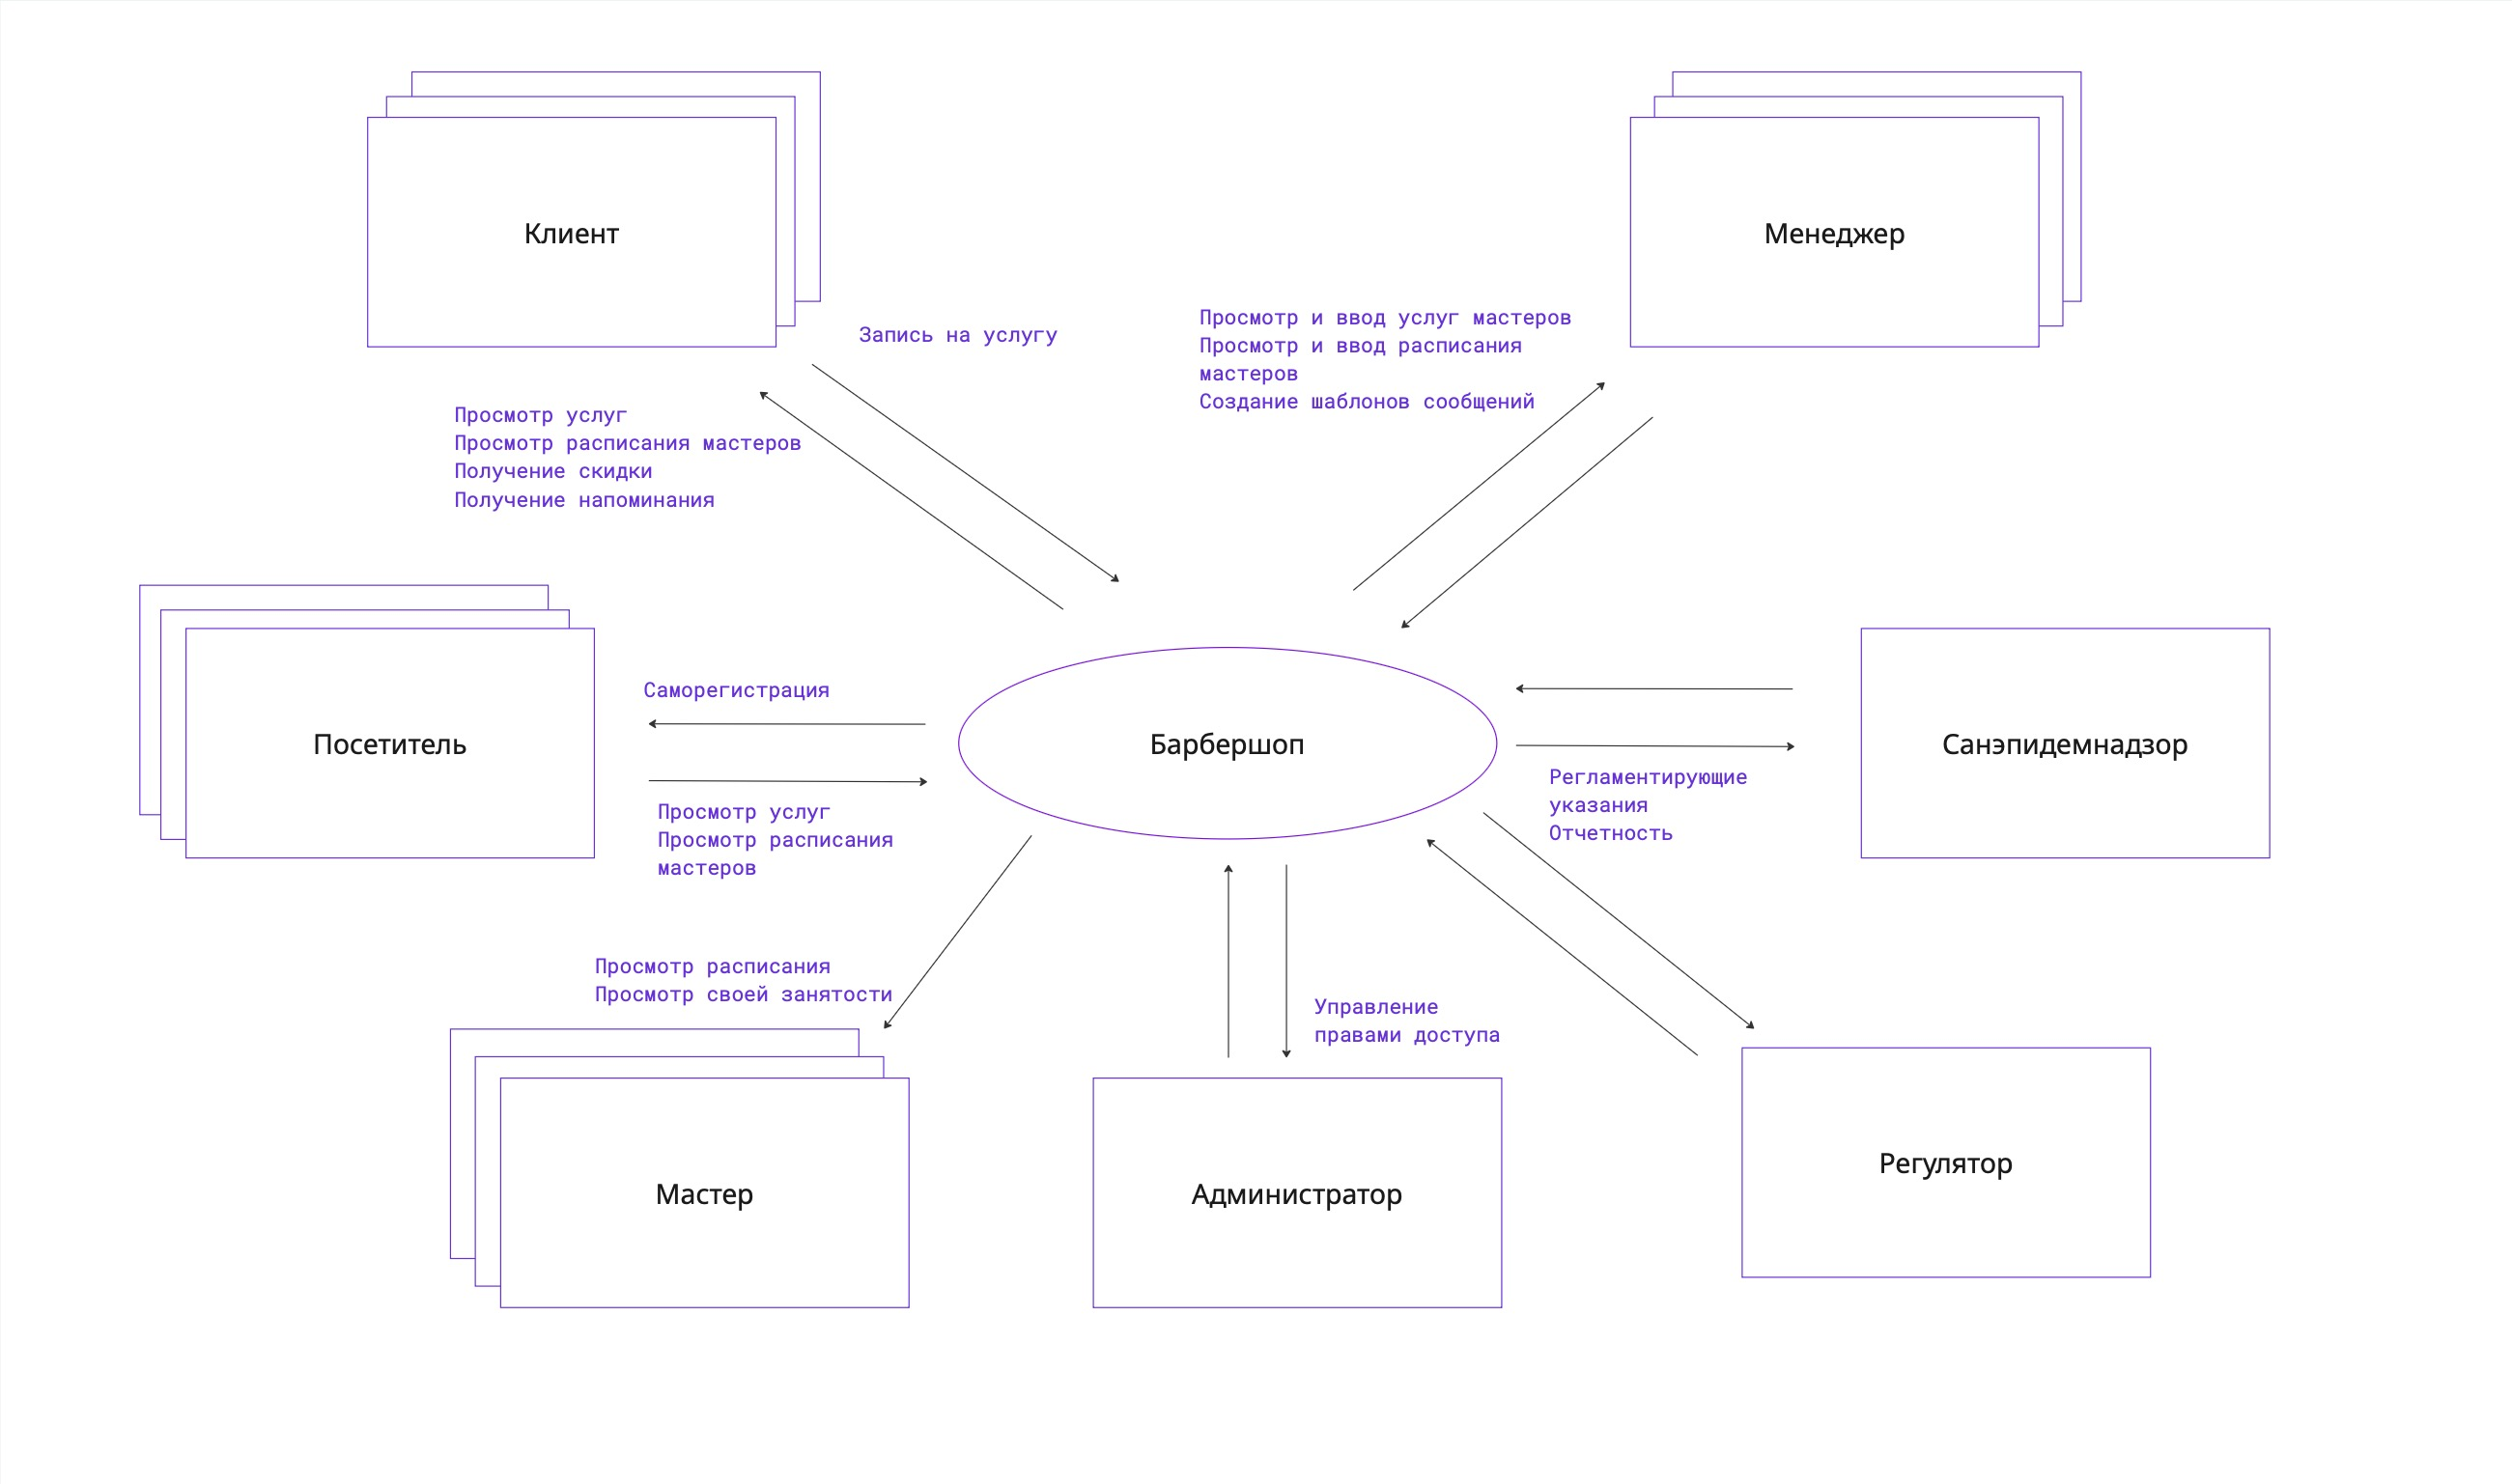
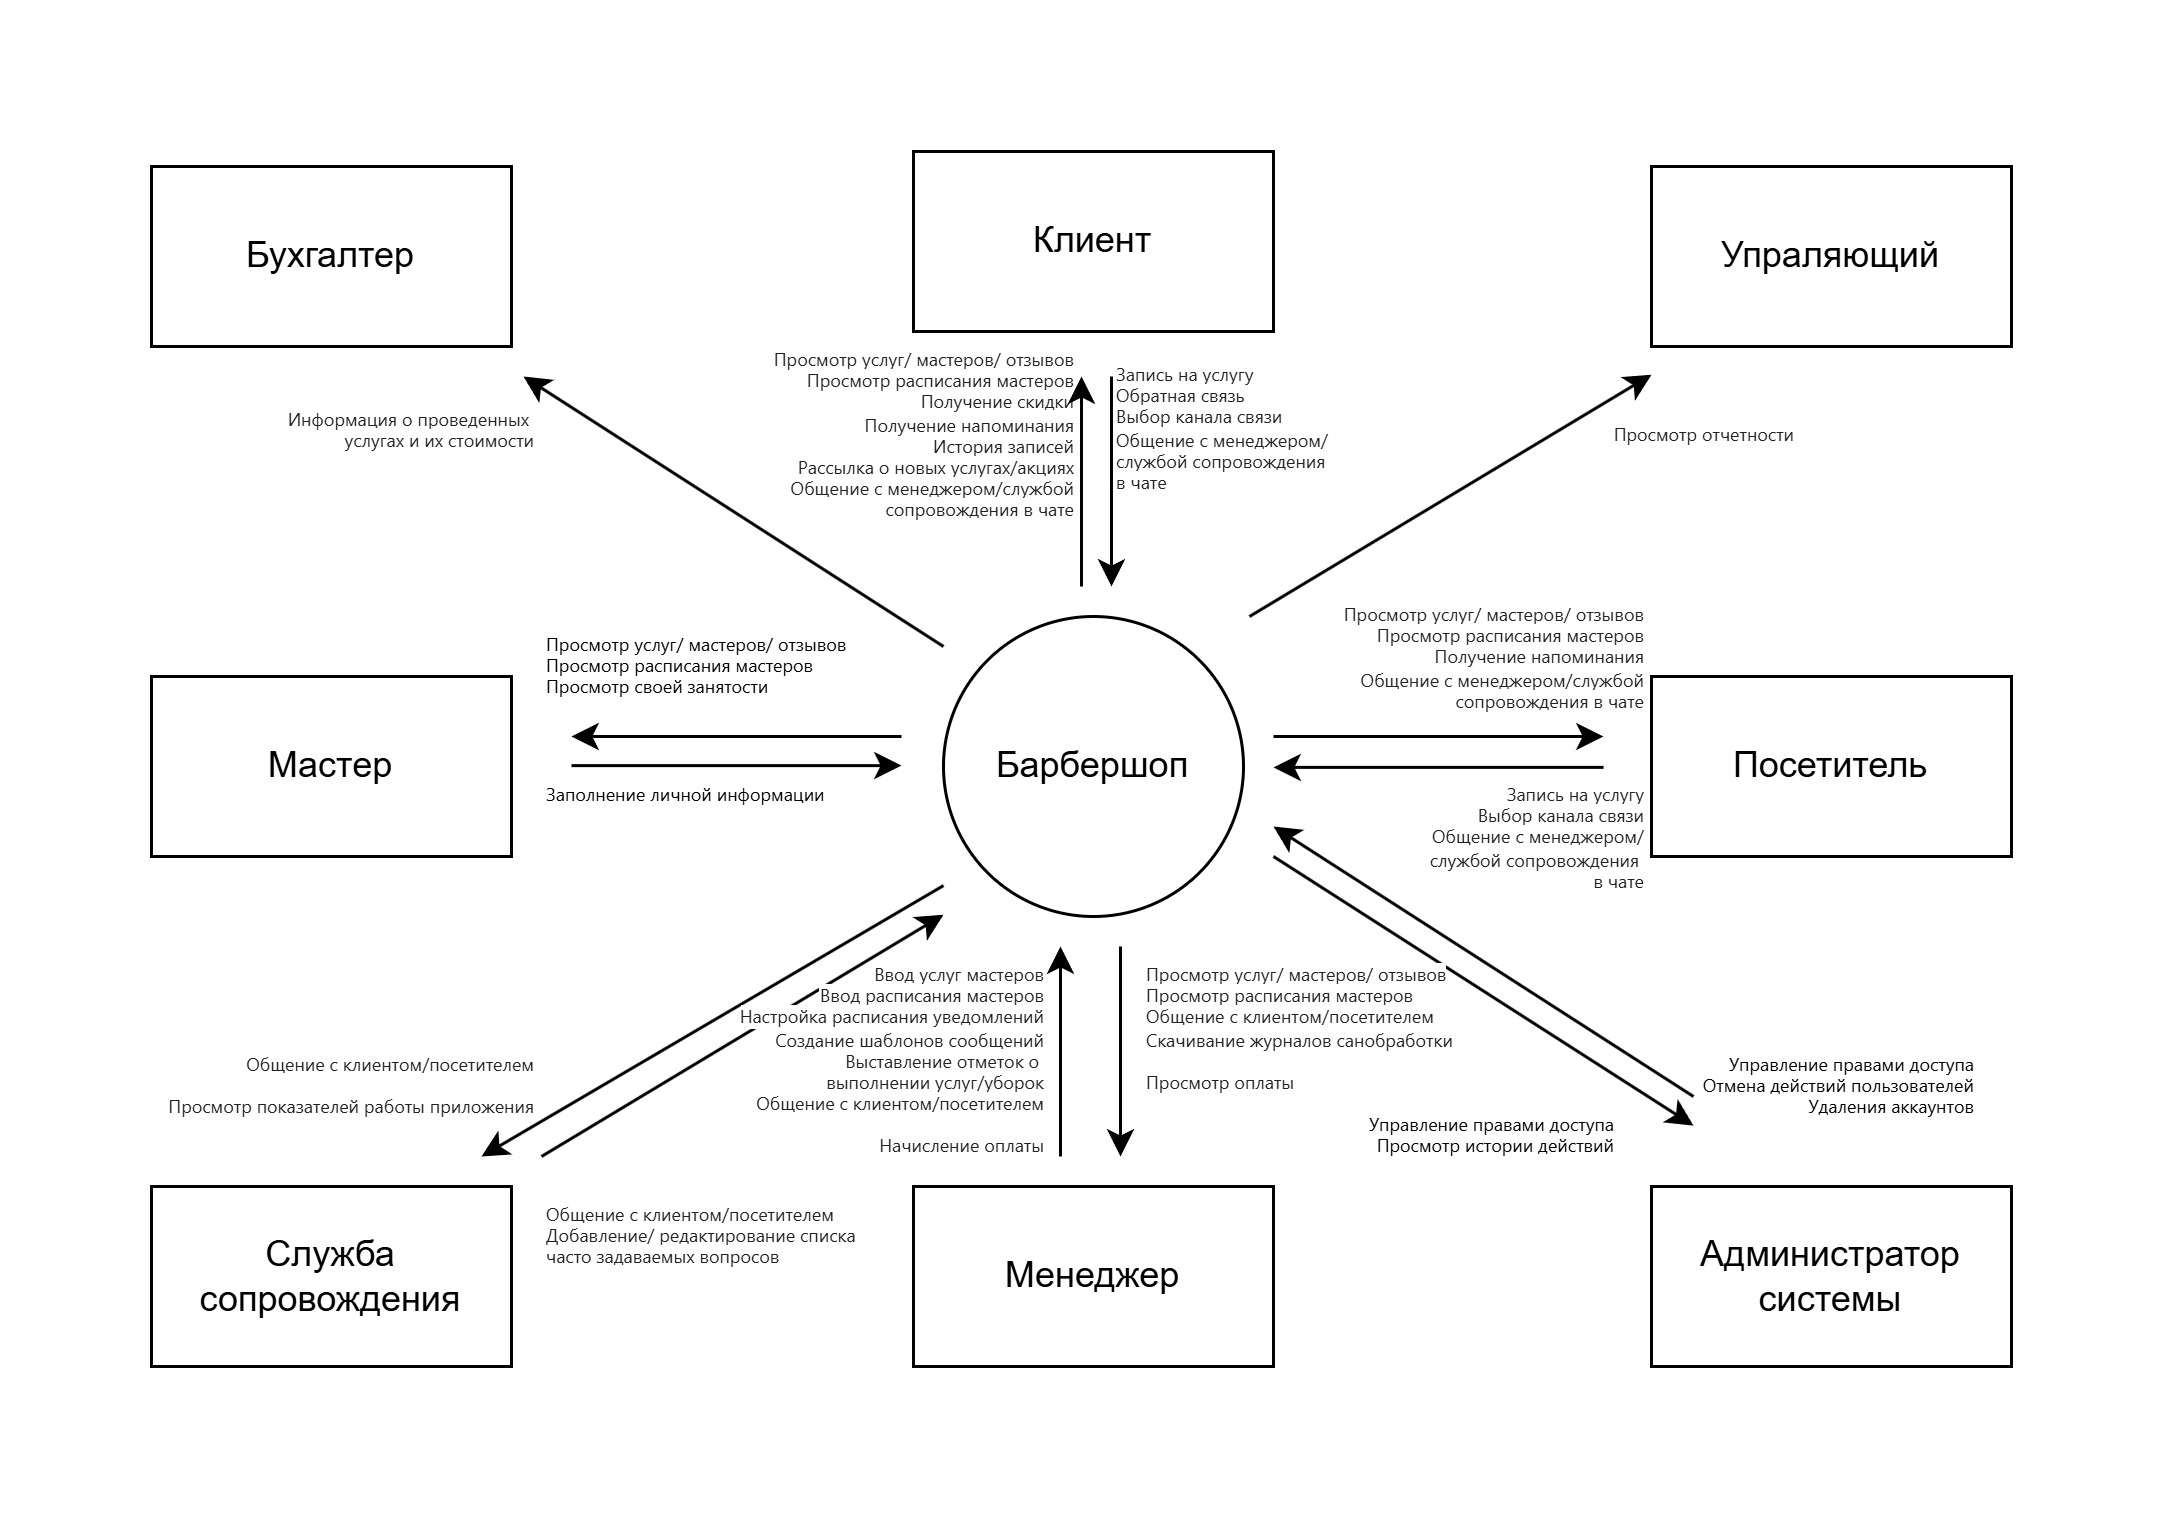
Init commit

diff --git a/2_DVR/README.md b/2_DVR/README.md
@@ -1,6 +1,8 @@
-# Концепция. Приложение для доставки продуктов питания "..."
+# Документ о концепции и границах. Приложение для доставки продуктов питания "..."
 
-## Раздел 1. Введение.
+В разработке ...
+
+<div class="meta_for_parser tablespecs" style="visibility:hidden">{## Раздел 1. Введение.
 
 ### 1.1. Назначение документа.
 
@@ -62,5 +64,5 @@
 
 *Документ подготовлен командой бизнес-аналитиков:*<br>
 *Дата создания:*<br>
-*Версия: 1.0*
+*Версия: 1.0*}
 